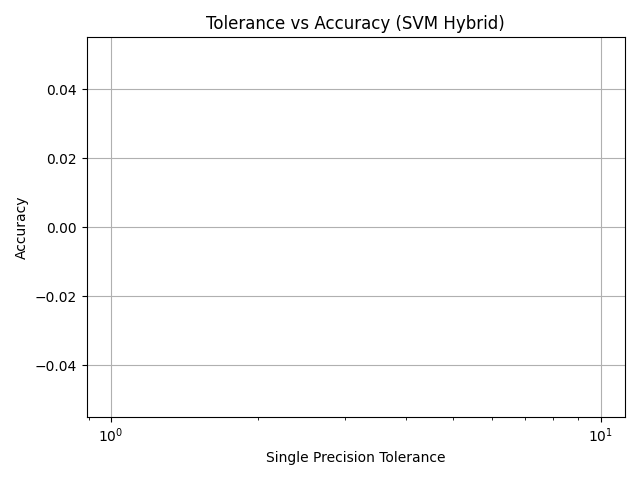
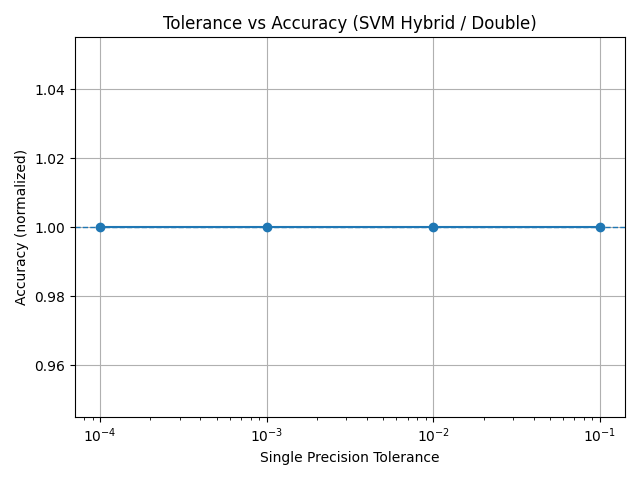
push current results

diff --git a/visualisations/SVM_visualisations.py b/visualisations/SVM_visualisations.py
@@ -19,9 +19,9 @@ class SVMVisualizer:
         g["Accuracy_norm"] = g["Accuracy_hyb"] / g["Accuracy_base"].replace(0, np.nan)
         plt.plot(g["Cap"], g["Accuracy_norm"], marker="o")
         plt.axhline(1.0, linestyle="--", linewidth=1)  # dotted baseline
-        plt.title("Cap vs Accuracy (SVM Hybrid / Double)")
+        plt.title("Cap vs Accuracy (SVM Hybrid)")
         plt.xlabel("Single Precision Iteration Cap")
-        plt.ylabel("Accuracy (normalized)")
+        plt.ylabel("Accuracy (relative to double)")
         plt.grid(True)
         plt.tight_layout()
         plt.savefig(self.output_dir / "svm_cap_vs_accuracy.png")
@@ -39,7 +39,7 @@ class SVMVisualizer:
         plt.axhline(1.0, linestyle="--", linewidth=1)  # dotted baseline
         plt.title("Cap vs Time (SVM Hybrid / Double)")
         plt.xlabel("Single Precision Iteration Cap")
-        plt.ylabel("Time (normalized)")
+        plt.ylabel("Time (relative to double)")
         plt.grid(True)
         plt.tight_layout()
         plt.savefig(self.output_dir / "svm_cap_vs_time.png")
@@ -60,9 +60,9 @@ class SVMVisualizer:
         plt.plot(hyb["Tolerance"], hyb["Accuracy_norm"], marker="o")
         plt.axhline(1.0, linestyle="--", linewidth=1)  # dotted baseline
         plt.xscale("log")
-        plt.title("Tolerance vs Accuracy (SVM Hybrid / Double)")
+        plt.title("Tolerance vs Accuracy (SVM Hybrid)")
         plt.xlabel("Single Precision Tolerance")
-        plt.ylabel("Accuracy (normalized)")
+        plt.ylabel("Accuracy (relative to double)")
         plt.grid(True)
         plt.tight_layout()
         plt.savefig(self.output_dir / "svm_tolerance_vs_accuracy.png")
@@ -82,9 +82,9 @@ class SVMVisualizer:
         plt.plot(hyb["Tolerance"], hyb["Time_norm"], marker="o")
         plt.axhline(1.0, linestyle="--", linewidth=1)  # dotted baseline
         plt.xscale("log")
-        plt.title("Tolerance vs Time (SVM Hybrid / Double)")
+        plt.title("Tolerance vs Time (SVM Hybrid)")
         plt.xlabel("Single Precision Tolerance")
-        plt.ylabel("Time (normalized)")
+        plt.ylabel("Time (relative to double)")
         plt.grid(True)
         plt.tight_layout()
         plt.savefig(self.output_dir / "svm_tolerance_vs_time.png")
